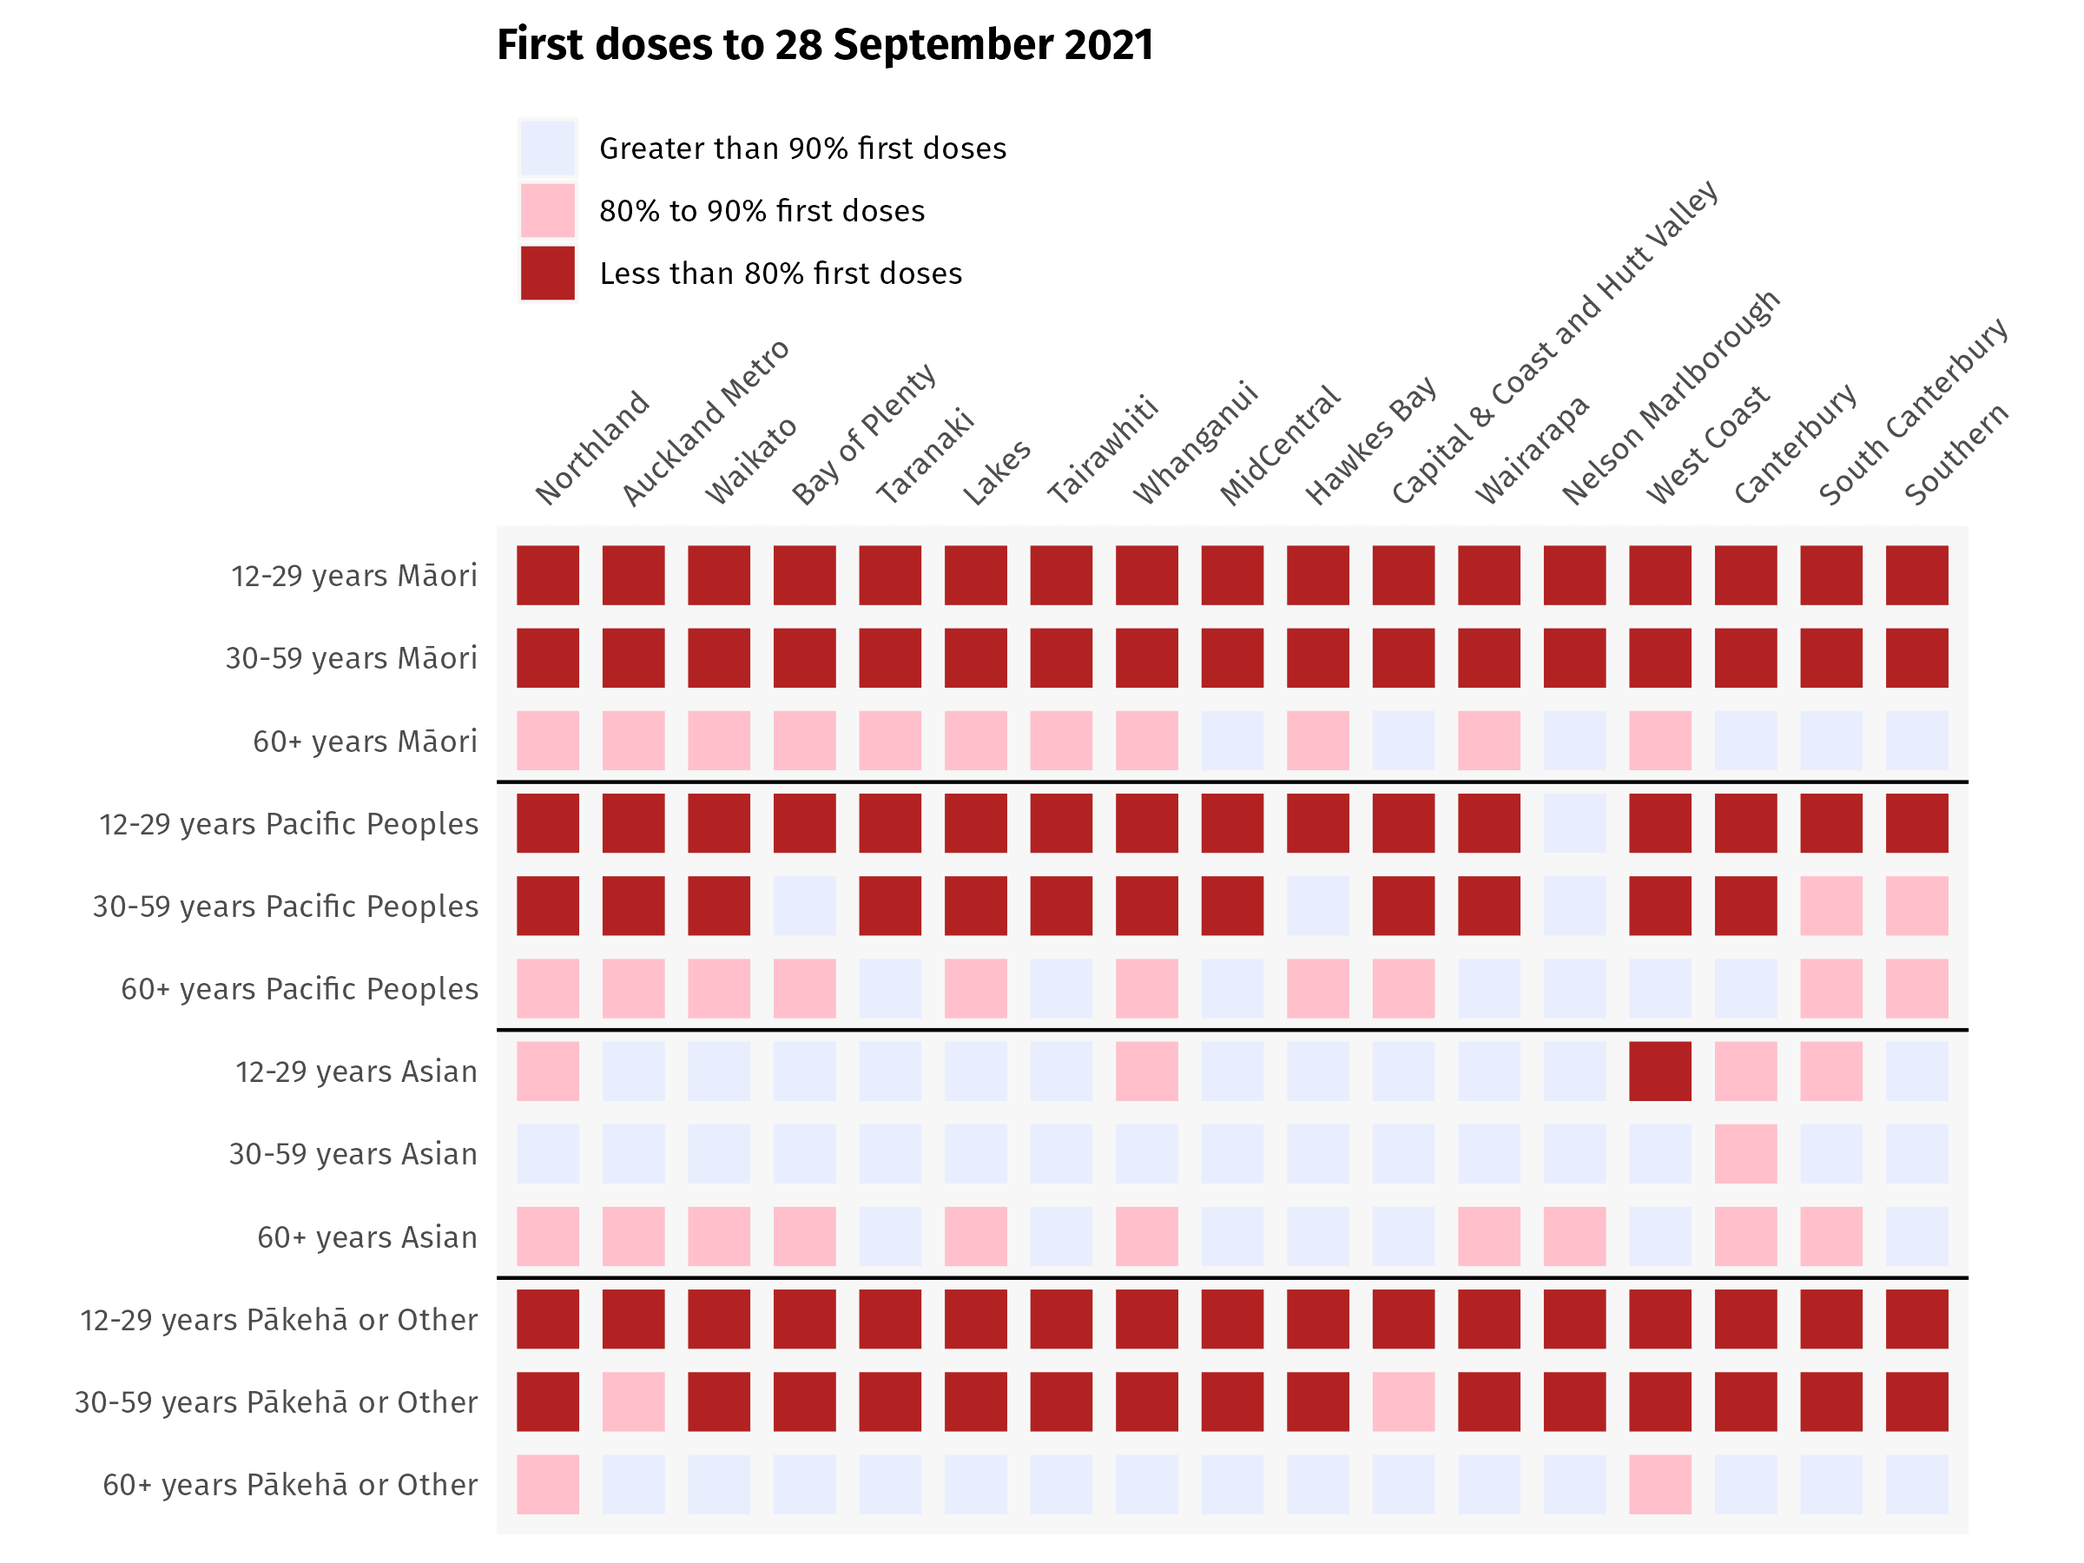
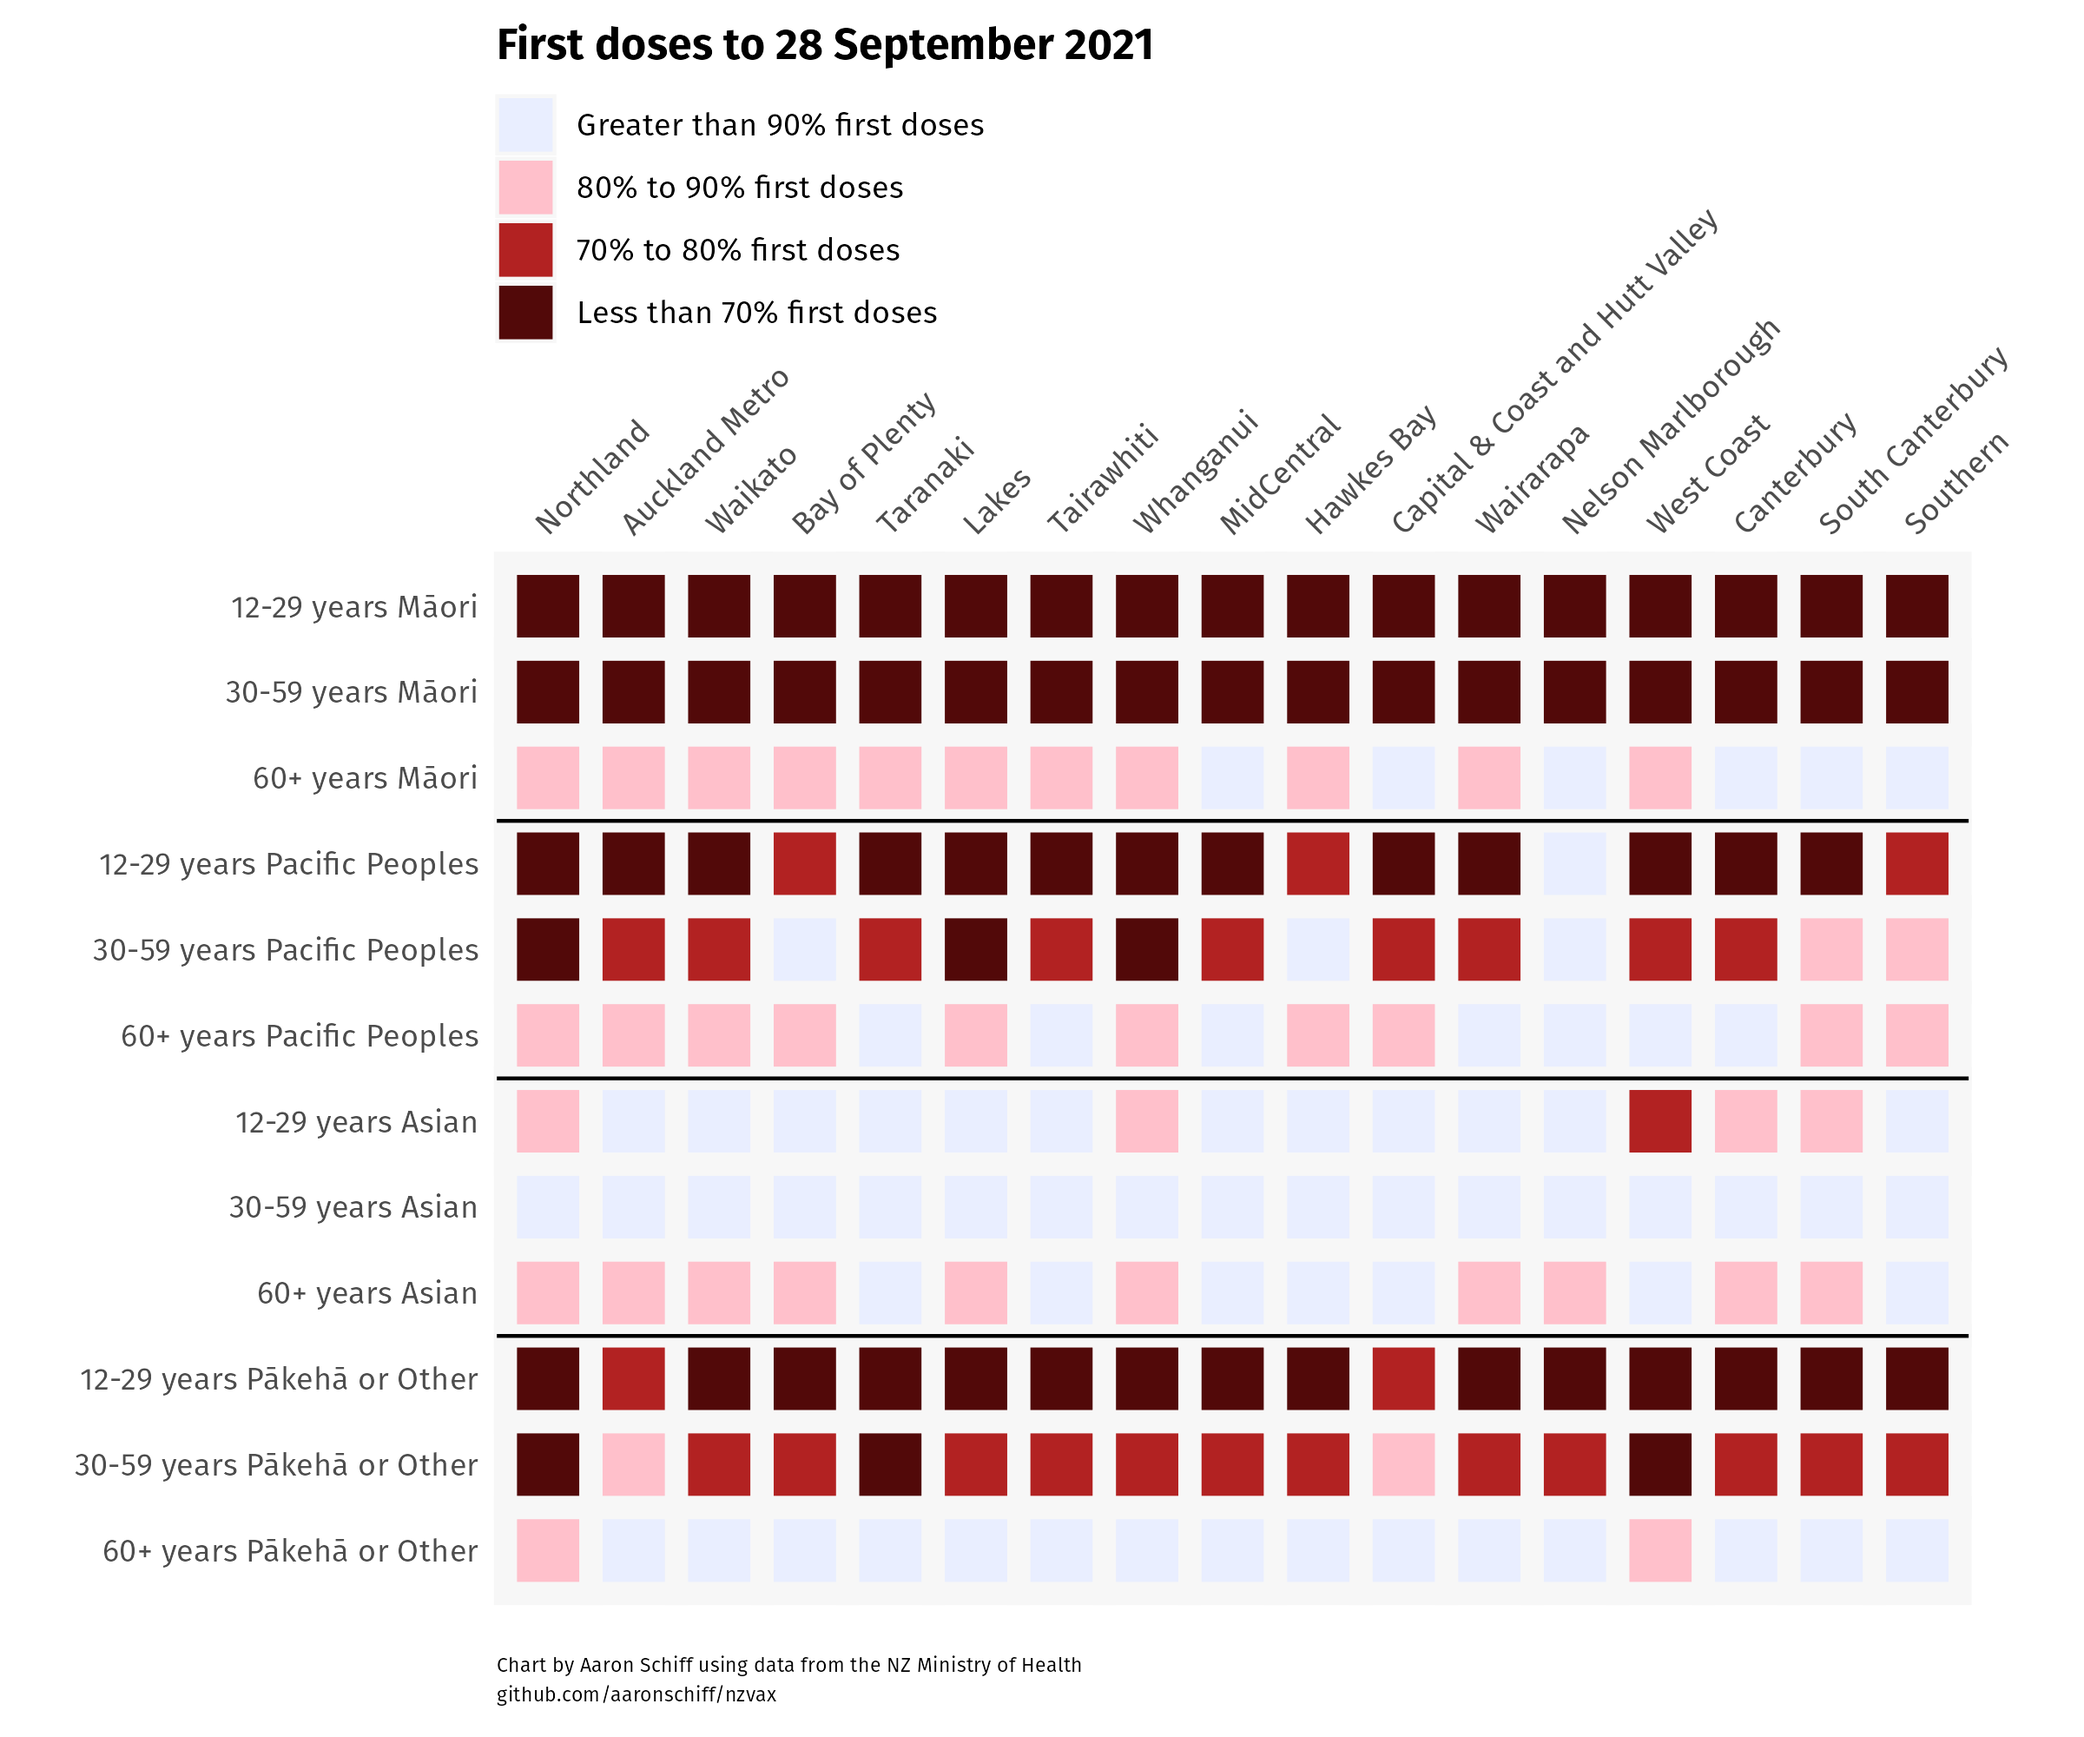
Added 70-80% category, and updated readme.

diff --git a/readme.md b/readme.md
@@ -6,3 +6,6 @@ By Aaron Schiff using data from the NZ Ministry of Health.
 
 Data source: https://www.health.govt.nz/our-work/diseases-and-conditions/covid-19-novel-coronavirus/covid-19-data-and-statistics/covid-19-vaccine-data
 
+Vaccination doses administered and HSU population are aggregated for all combinations of ethnicities, three age groups, and DHB area. People of "unknown" or "various" ethnicity are excluded. People in the "unknown / overseas" DHB area are also excluded. 
+
+People who are fully vaccinated (two doses) are also included in the chart of first doses, i.e. the first doses chart shows people who have received one or more doses, not the people who have received only one dose. 
